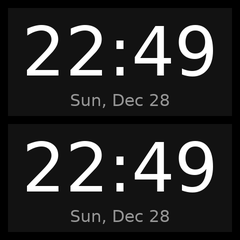
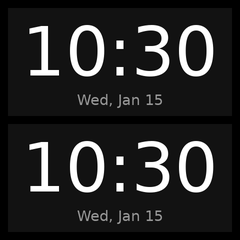
chore: add media widget samples and fix sample generation
- Add media widget to sample generation with fake album art
- Use fixed SAMPLE_TIME for reproducible clock displays
- Fix media player sample (was rendering black)
- Add media widget size samples (1x1 through 3x3)

🤖 Generated with [Claude Code](https://claude.com/claude-code)

diff --git a/scripts/generate_samples.py b/scripts/generate_samples.py
@@ -52,7 +52,6 @@ from custom_components.geekmagic.layouts.split import (
     ThreeColumnLayout,
     ThreeRowLayout,
 )
-from custom_components.geekmagic.render_context import RenderContext
 from custom_components.geekmagic.renderer import Renderer
 from custom_components.geekmagic.widgets import (
     ChartWidget,
@@ -84,11 +83,16 @@ from scripts.mock_hass import (
     create_weather_states,
 )
 
+# Fixed sample time for reproducible clock displays (Wed Jan 15, 2025 10:30 AM)
+SAMPLE_TIME = datetime(2025, 1, 15, 10, 30, 0, tzinfo=UTC)
+
 
 def build_widget_states(
     layout: Layout,
     hass: MockHass,
     chart_history: dict[int, list[float]] | None = None,
+    images: dict[int, Image.Image] | None = None,
+    now: datetime | None = None,
 ) -> dict[int, WidgetState]:
     """Build WidgetState dict for all widgets in a layout.
 
@@ -96,12 +100,18 @@ def build_widget_states(
         layout: Layout with widgets assigned
         hass: MockHass with entity states
         chart_history: Optional dict mapping slot index to history data
+        images: Optional dict mapping slot index to PIL images
+        now: Optional fixed datetime for reproducible samples (defaults to current time)
 
     Returns:
         Dict mapping slot index to WidgetState
     """
     widget_states: dict[int, WidgetState] = {}
     chart_history = chart_history or {}
+    images = images or {}
+
+    # Use fixed time for reproducible samples (default to SAMPLE_TIME)
+    sample_time = now if now is not None else SAMPLE_TIME
 
     for slot in layout.slots:
         if slot.widget is None:
@@ -145,13 +155,16 @@ def build_widget_states(
         if entity and widget.config.widget_type == "weather":
             forecast = entity.attributes.get("forecast", [])
 
+        # Get image for this slot (for media/camera widgets)
+        image = images.get(slot.index)
+
         widget_states[slot.index] = WidgetState(
             entity=entity,
             entities=entities,
             history=history,
             forecast=forecast,
-            image=None,
-            now=datetime.now(tz=UTC),
+            image=image,
+            now=sample_time,
         )
 
     return widget_states
@@ -163,6 +176,93 @@ def save_image(renderer: Renderer, img: Image.Image, name: str, output_dir: Path
     output_path = output_dir / f"{name}.png"
     final.save(output_path)
     print(f"Generated: {output_path}")
+
+
+def create_fake_album_art(size: int = 300) -> Image.Image:
+    """Create a fake album art image with elegant abstract design.
+
+    Generates a visually appealing image that looks like modern album artwork
+    with smooth gradients, geometric shapes, and artistic composition.
+
+    Args:
+        size: Image size (square)
+
+    Returns:
+        PIL Image
+    """
+    from PIL import ImageDraw, ImageFilter
+
+    # Create image
+    img = Image.new("RGB", (size, size))
+    draw = ImageDraw.Draw(img)
+
+    # Rich gradient colors (deep blue to magenta to warm coral)
+    colors = [
+        (15, 23, 42),  # Slate 900
+        (88, 28, 135),  # Purple 900
+        (157, 23, 77),  # Pink 900
+        (194, 65, 12),  # Orange 800
+        (251, 146, 60),  # Orange 400
+    ]
+
+    # Draw diagonal gradient for more visual interest
+    for y in range(size):
+        for x in range(size):
+            # Diagonal position (0 to 1)
+            diag_pos = (x + y) / (size * 2)
+
+            # Map to color array
+            pos = diag_pos * (len(colors) - 1)
+            idx = min(int(pos), len(colors) - 2)
+            t = pos - idx
+
+            # Smooth interpolation
+            c1, c2 = colors[idx], colors[idx + 1]
+            r = int(c1[0] + (c2[0] - c1[0]) * t)
+            g = int(c1[1] + (c2[1] - c1[1]) * t)
+            b = int(c1[2] + (c2[2] - c1[2]) * t)
+            img.putpixel((x, y), (r, g, b))
+
+    # Large soft circle (like a sun/moon)
+    circle_radius = int(size * 0.35)
+    circle_x = int(size * 0.55)
+    circle_y = int(size * 0.45)
+
+    # Draw circle with gradient fill
+    for radius in range(circle_radius, 0, -1):
+        # Fade from bright to background
+        t = radius / circle_radius
+        # Warm highlight color
+        color = (
+            int(255 * t + 194 * (1 - t)),
+            int(200 * t + 65 * (1 - t)),
+            int(150 * t + 12 * (1 - t)),
+        )
+        draw.ellipse(
+            [circle_x - radius, circle_y - radius, circle_x + radius, circle_y + radius],
+            fill=color,
+        )
+
+    # Add subtle arc lines for texture
+    for i in range(3):
+        arc_radius = int(size * (0.6 + i * 0.15))
+        arc_center_x = int(size * 0.2)
+        arc_center_y = int(size * 0.8)
+        draw.arc(
+            [
+                arc_center_x - arc_radius,
+                arc_center_y - arc_radius,
+                arc_center_x + arc_radius,
+                arc_center_y + arc_radius,
+            ],
+            start=-60,
+            end=30,
+            fill=(255, 255, 255),
+            width=2,
+        )
+
+    # Apply slight blur for softness
+    return img.filter(ImageFilter.GaussianBlur(radius=1))
 
 
 def generate_widget_sizes(renderer: Renderer, output_dir: Path) -> None:
@@ -202,6 +302,21 @@ def generate_widget_sizes(renderer: Renderer, output_dir: Path) -> None:
             ],
         },
     )
+    hass.states.set(
+        "media_player.spotify",
+        "playing",
+        {
+            "friendly_name": "Spotify",
+            "media_title": "Bohemian Rhapsody",
+            "media_artist": "Queen",
+            "media_album_name": "A Night at the Opera",
+            "media_position": 145,
+            "media_duration": 354,
+        },
+    )
+
+    # Create fake album art for media widget
+    media_album_art = create_fake_album_art(300)
 
     def make_gauge_bar(slot: int) -> GaugeWidget:
         return GaugeWidget(
@@ -342,6 +457,17 @@ def generate_widget_sizes(renderer: Renderer, output_dir: Path) -> None:
             )
         )
 
+    def make_media(slot: int) -> MediaWidget:
+        return MediaWidget(
+            WidgetConfig(
+                widget_type="media",
+                slot=slot,
+                entity_id="media_player.spotify",
+                color=COLOR_CYAN,
+                options={"show_album_art": True, "show_artist": True, "show_progress": True},
+            )
+        )
+
     # Chart history data - keyed by widget_name
     chart_histories: dict[str, list[float]] = {
         "chart": [20, 21, 22, 21, 23, 24, 23, 22, 21, 22, 23, 24],
@@ -362,6 +488,7 @@ def generate_widget_sizes(renderer: Renderer, output_dir: Path) -> None:
         ("status", make_status),
         ("chart", make_chart),
         ("chart_binary", make_chart_binary),
+        ("media", make_media),
     ]
 
     # Layout configs: (suffix, layout_class, num_slots, padding, gap)
@@ -400,7 +527,17 @@ def generate_widget_sizes(renderer: Renderer, output_dir: Path) -> None:
                 for i in range(num_slots):
                     slot_chart_history[i] = chart_histories[widget_name]
 
-            layout.render(renderer, draw, build_widget_states(layout, hass, slot_chart_history))
+            # Build images dict for media widgets
+            slot_images: dict[int, Image.Image] = {}
+            if widget_name == "media":
+                for i in range(num_slots):
+                    slot_images[i] = media_album_art
+
+            layout.render(
+                renderer,
+                draw,
+                build_widget_states(layout, hass, slot_chart_history, images=slot_images),
+            )
             save_image(renderer, img, f"{widget_name}_{layout_suffix}", widgets_dir)
 
     print(f"Generated widget size samples in {widgets_dir}")
@@ -674,40 +811,30 @@ def generate_server_stats(renderer: Renderer, output_dir: Path) -> None:
 
 
 def generate_media_player(renderer: Renderer, output_dir: Path) -> None:
-    """Generate media player dashboard using single-slot layout."""
+    """Generate media player dashboard using fullscreen layout with album art."""
     hass = MockHass()
     create_media_player_states(hass)
 
+    layout = FullscreenLayout(padding=0)
     img, draw = renderer.create_canvas()
 
-    # Media widget takes full screen
+    # Media widget takes full screen with album art
     media = MediaWidget(
         WidgetConfig(
             widget_type="media",
             slot=0,
             entity_id="media_player.living_room",
             color=COLOR_CYAN,
-            options={"show_artist": True, "show_progress": True},
+            options={"show_artist": True, "show_progress": True, "show_album_art": True},
         )
     )
+    layout.set_widget(0, media)
 
-    # Draw media widget in full canvas area using RenderContext
-    rect = (8, 8, 232, 232)
-    ctx = RenderContext(draw, rect, renderer)
-    # Build state for the media widget
-    state_obj = hass.states.get("media_player.living_room")
-    media_state = WidgetState(
-        entity=EntityState(
-            entity_id="media_player.living_room",
-            state=state_obj.state if state_obj else "unknown",
-            attributes=state_obj.attributes if state_obj else {},
-        )
-        if state_obj
-        else None,
-        now=datetime.now(tz=UTC),
-    )
-    media.render(ctx, media_state)
+    # Create fake album art for the sample
+    album_art = create_fake_album_art(300)
+    images = {0: album_art}
 
+    layout.render(renderer, draw, build_widget_states(layout, hass, images=images))
     save_image(renderer, img, "05_media_player", output_dir)
 
 
